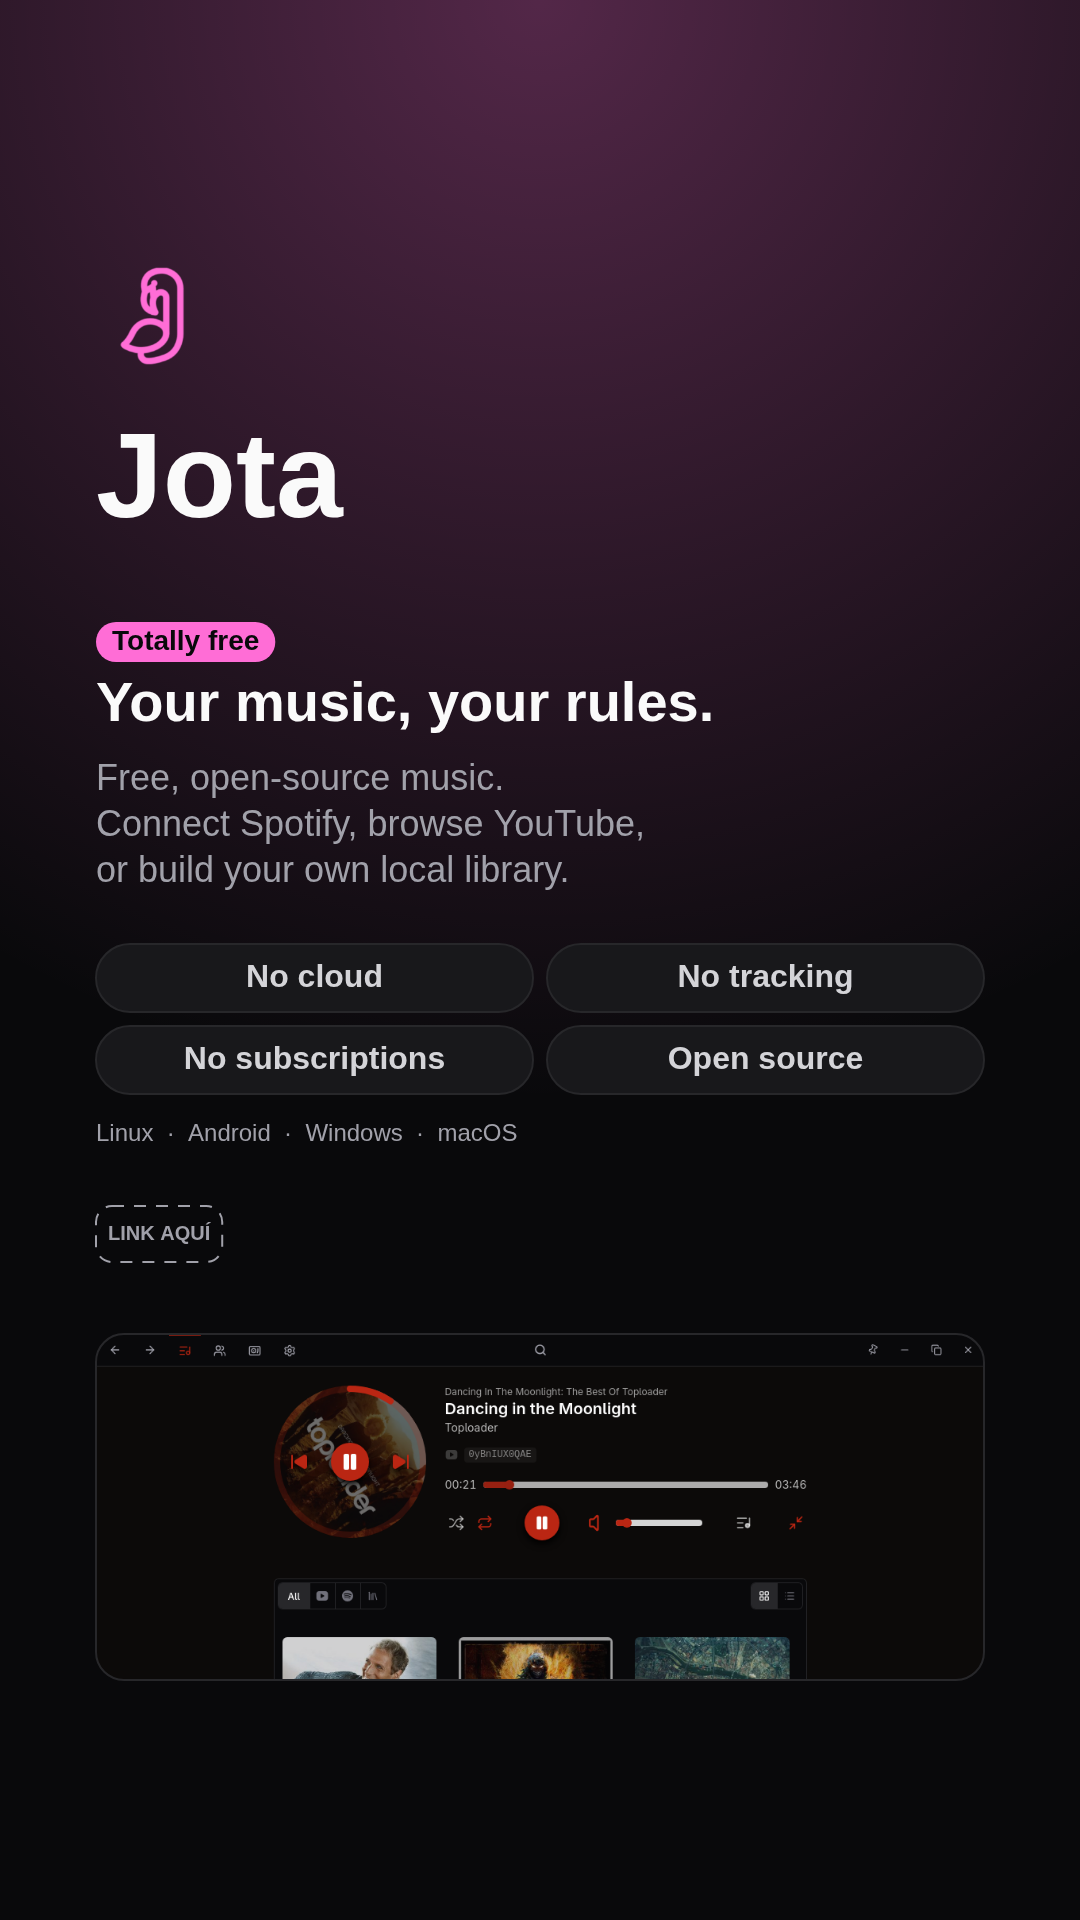
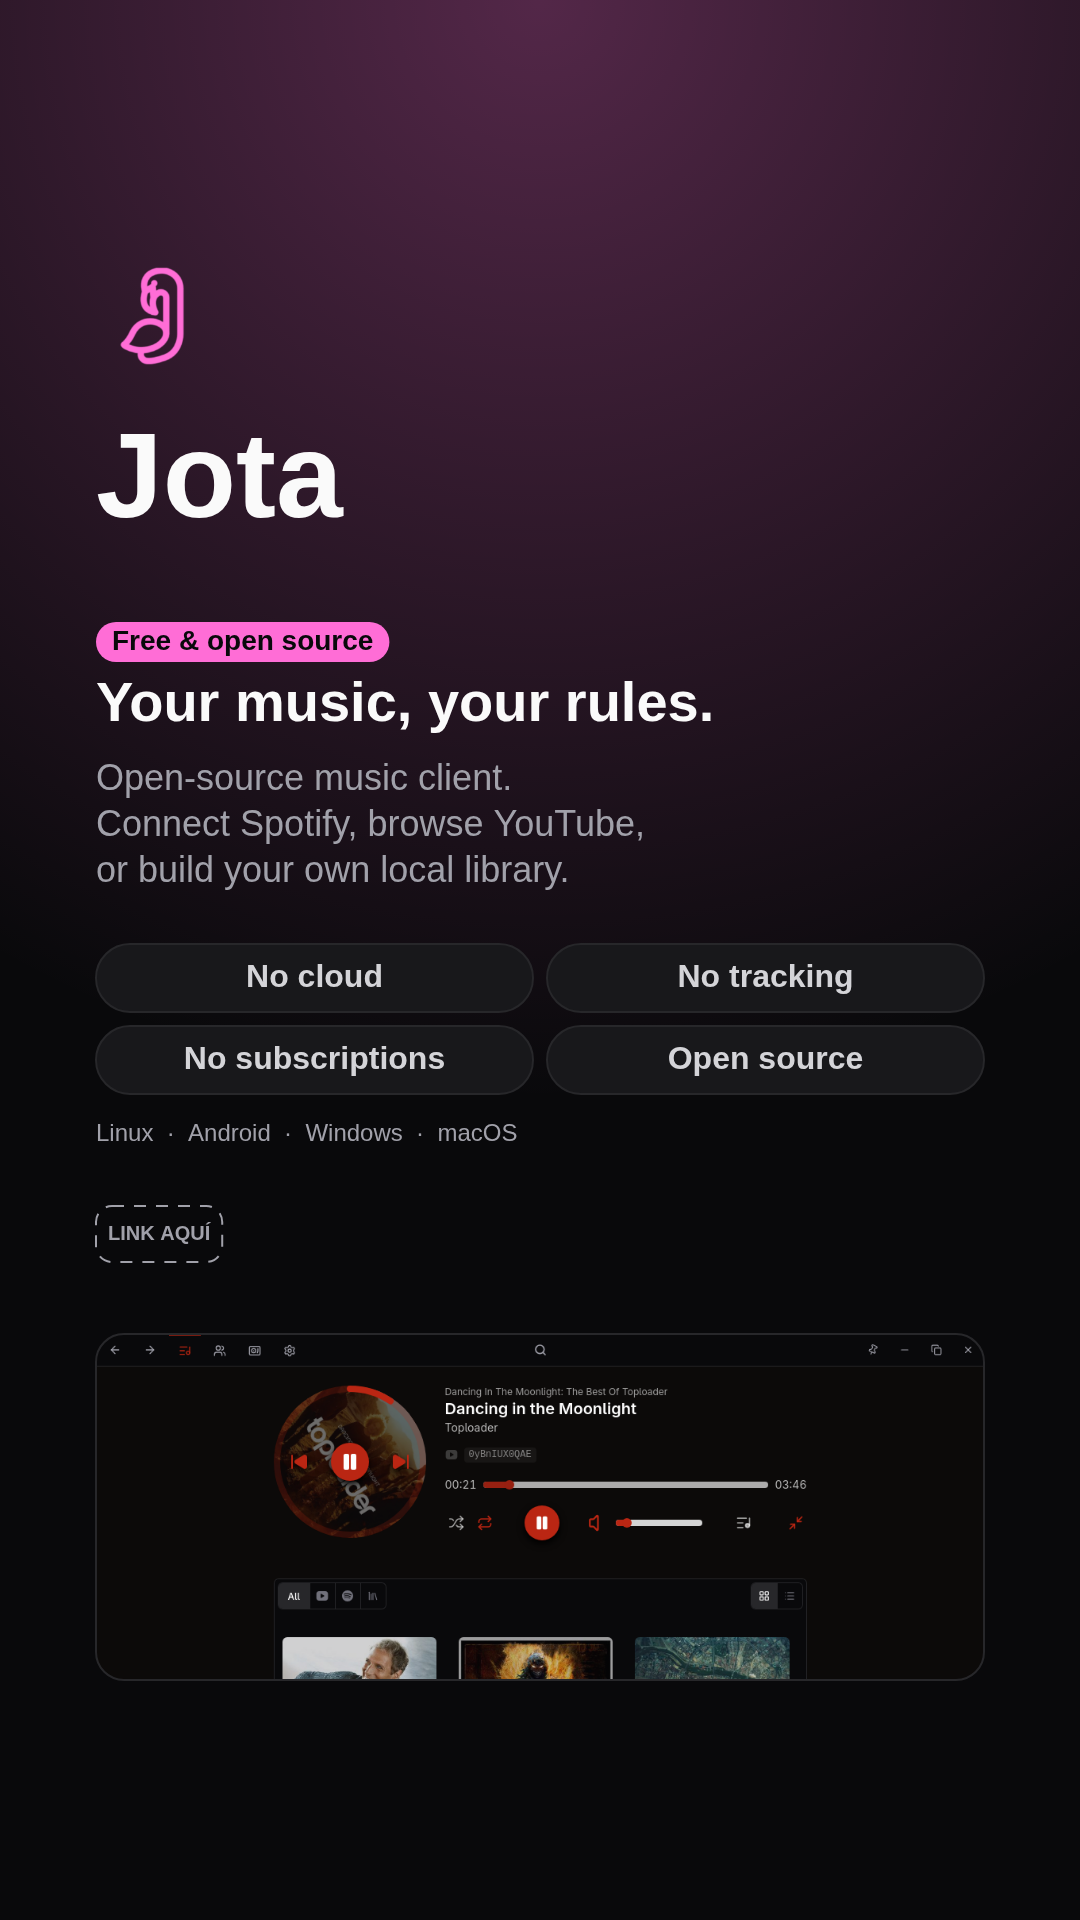
fix(copy): avoid 'free music' claims in story image

diff --git a/src/i18n/landing/es.ts b/src/i18n/landing/es.ts
@@ -223,14 +223,14 @@ export default {
 		eyebrow: "Historia",
 		title: "Comparte Jota en tus historias.",
 		body: "Una imagen lista para Instagram, con el resumen de la app y la captura real del reproductor.",
-		imageBody: "Música gratis y de código abierto.\nConecta Spotify, explora YouTube\no crea tu propia biblioteca local.",
+		imageBody: "Cliente de música open source.\nConecta Spotify, explora YouTube\no crea tu propia biblioteca local.",
 		download: "Descargar PNG",
 		share: "Compartir",
 		instagram: "Compartir en Instagram",
 		hint: "PNG de 1080 × 1920, sin marca de agua.",
 		instructions: "Compartir en Instagram",
 		intro: "¿Te ha gustado la app? Compártela en un toque con una historia lista.",
-		free: "Totalmente gratis",
+		free: "Gratis y código abierto",
 		step1: "Copia el enlace al portapapeles.",
 		step2: "Descarga la imagen de la historia.",
 		step3: "Abre Instagram, crea una historia, añade la imagen y pega el enlace.",

diff --git a/src/i18n/landing/en.ts b/src/i18n/landing/en.ts
@@ -223,14 +223,14 @@ export default {
 		eyebrow: "Story",
 		title: "Share Jota in your stories.",
 		body: "A ready-made Instagram image with the app in a nutshell and a real screenshot of the player.",
-		imageBody: "Free, open-source music.\nConnect Spotify, browse YouTube,\nor build your own local library.",
+		imageBody: "Open-source music client.\nConnect Spotify, browse YouTube,\nor build your own local library.",
 		download: "Download PNG",
 		share: "Share",
 		instagram: "Share on Instagram",
 		hint: "1080 × 1920 PNG, no watermark.",
 		instructions: "Share on Instagram",
 		intro: "Enjoyed the app? Share it in a tap with a ready-made story.",
-		free: "Totally free",
+		free: "Free & open source",
 		step1: "Copy the link to your clipboard.",
 		step2: "Download the story image.",
 		step3: "Open Instagram, create a story, add the image and paste the link.",
